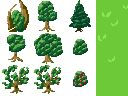
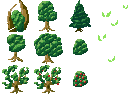
Make all of the grass tiles be mostly transparent using BG for grass colour

Changed region(s): [[0.75, 0.0, 1.0, 1.0]]

diff --git a/game/world.go b/game/world.go
@@ -10,6 +10,7 @@ import (
 const (
 	TILE_SIZE         = 32
 	SCALE             = 2
+	CAM_SPEED         = 400.0
 	GRASS_TILES_START = 9
 	GRASS_TILES_END   = 11
 )
@@ -37,7 +38,23 @@ type World struct {
 	camPos      pixel.Vec
 }
 
-func (w *World) Draw(win *pixelgl.Window) {
+func (w *World) Draw(win *pixelgl.Window, dt float64) {
+	if win.Pressed(pixelgl.KeyA) {
+		w.camPos.X -= CAM_SPEED * dt
+	}
+
+	if win.Pressed(pixelgl.KeyD) {
+		w.camPos.X += CAM_SPEED * dt
+	}
+
+	if win.Pressed(pixelgl.KeyW) {
+		w.camPos.Y += CAM_SPEED * dt
+	}
+
+	if win.Pressed(pixelgl.KeyS) {
+		w.camPos.Y -= CAM_SPEED * dt
+	}
+
 	cam := pixel.IM.Scaled(w.camPos, SCALE).Moved(win.Bounds().Center().Sub(w.camPos))
 	win.SetMatrix(cam)
 	maxX, maxY := computeTilesToRender(win.Bounds())

diff --git a/main.go b/main.go
@@ -5,12 +5,12 @@ import (
 	"os"
 	"time"
 
+	"image/color"
 	_ "image/png"
 
 	"github.com/faiface/pixel"
 	"github.com/faiface/pixel/pixelgl"
 	"github.com/tauraamui/midnight/game"
-	"golang.org/x/image/colornames"
 )
 
 const (
@@ -24,9 +24,12 @@ func run() {
 
 	world := game.NewWorld(loadTerrainSprites())
 
+	last := time.Now()
 	for !win.Closed() {
-		win.Clear(colornames.Whitesmoke)
-		world.Draw(win)
+		deltaTime := time.Since(last).Seconds()
+		last = time.Now()
+		win.Clear(color.RGBA{R: 110, G: 201, B: 57, A: 1})
+		world.Draw(win, deltaTime)
 		win.Update()
 		<-fps
 	}
